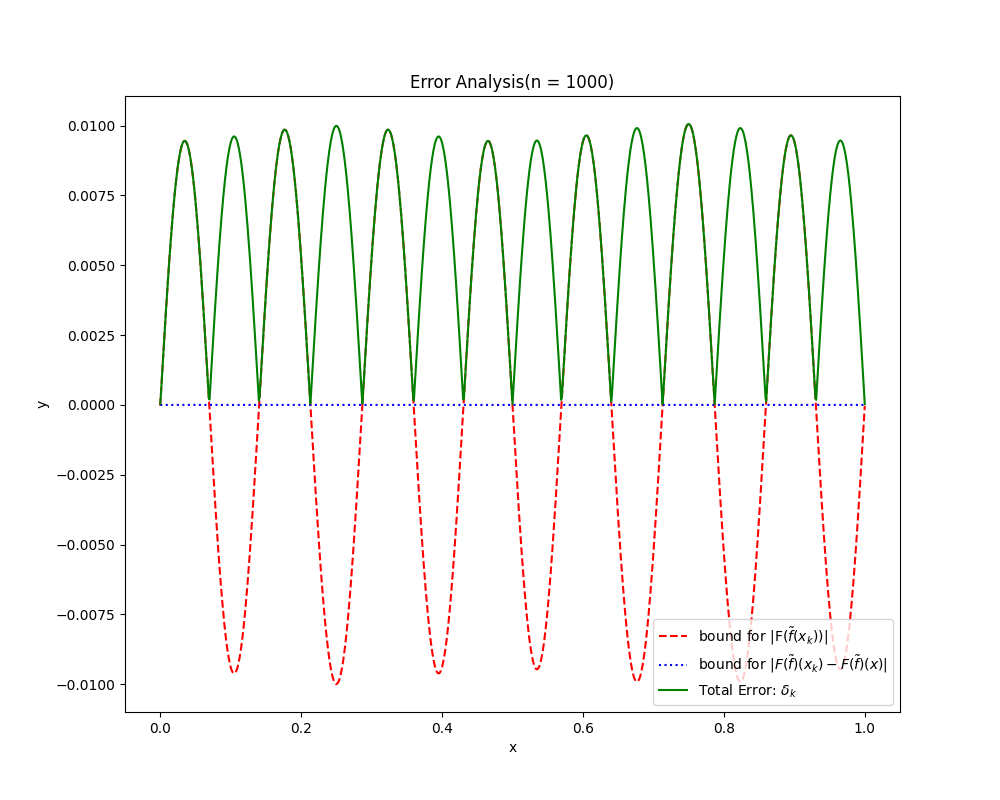
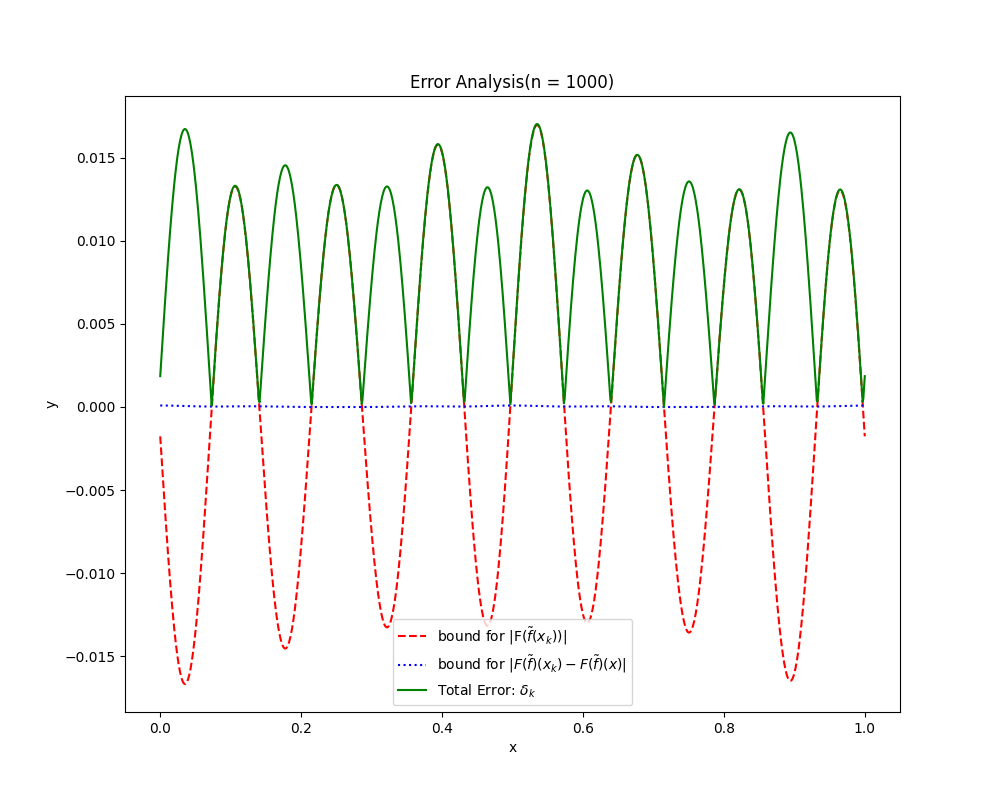
‘new’

diff --git a/pde_solver.py b/pde_solver.py
@@ -8,6 +8,7 @@ tf.keras.backend.set_floatx('float64')
 
 def sine_activation(x):
     return tf.sin(2 * math.pi * x)
+    
 
 class SineActivation(Layer):
     def __init__(self):
@@ -20,7 +21,8 @@ NN = tf.keras.models.Sequential([
         tf.keras.layers.Input((1,)),
         SineActivation(),
         tf.keras.layers.Dense(units=64, activation=sine_activation),
-        tf.keras.layers.Dense(units=1)
+        tf.keras.layers.Dense(units=1),
+
     ])
 
 NN.summary()
@@ -29,6 +31,9 @@ optm = tf.keras.optimizers.Adam(learning_rate=0.001)
 
 def rho_sin(t):
     return tf.sin(2*math.pi*t)/4
+
+def rho_sin2(t):
+    return (tf.cos(4 * math.pi * t) + tf.sin(6 * math.pi * t))/8
 
 
 
@@ -48,53 +53,26 @@ def ode_system(t, rho, net):
 
     u_tt = tape1.gradient(u_t, t)
     u_t2 = 2 * u * u_t  # Chain rule for derivative of u*u with respect to t
-    ode_loss = - u_tt + u_t2   # for non-trivial solution, add rho(t)
-    IC_loss = net(t_0) - zeros
-    EC_loss = net(t_1) - zeros
-    BC_loss = net(t_1) - net(t_0)
+    ode_loss = - u_tt + u_t2  + rho(t)   # for non-trivial solution, add rho(t)
 
-    square_loss = tf.square(ode_loss) + tf.square(IC_loss)
+
+    square_loss = tf.square(ode_loss)
     total_loss = tf.reduce_mean(square_loss)
 
     del tape1  # Clean up
 
     return total_loss, ode_loss
 
-train_t = np.linspace(0, 1, 1001).reshape(-1, 1).astype(np.float64)
-train_loss_record = []
-
-optm = tf.keras.optimizers.Adam(learning_rate=0.001)
-
-for itr in range(2001):
-    with tf.GradientTape() as tape:
-        train_loss, _ = ode_system(tf.constant(train_t),rho_sin, NN)
-        train_loss_record.append(train_loss.numpy())
-
-        grad_w = tape.gradient(train_loss, NN.trainable_variables)
-        optm.apply_gradients(zip(grad_w, NN.trainable_variables))
-
-    if itr % 1000 == 0:
-        print(train_loss.numpy())
-
-test_t = np.linspace(0, 1, 100).astype(np.float64)
-pred_u = NN.predict(test_t).ravel()
-
-# Plot training loss
-
-plt.figure(figsize=(10, 8))
-plt.plot(train_loss_record, label='Training Loss')
-plt.xlabel('Iteration')
-plt.ylabel('Loss')
-plt.legend()
-plt.title('Training Loss Over Iterations')
-plt.savefig("training_loss_plot.png")  # Save plot
 
 
-# Generate and plot predictions
-test_t = np.linspace(0, 1, 100).astype(np.float64)
-pred_u = NN.predict(test_t).ravel()
+
+
+
+
 
 ## TODO For the Neural Network above, find the bound for the derivative of F_approx (using Summation)
+
+
 def NN_derivative(t, net):
     """
     Compute the derivative of the neural network 
@@ -108,6 +86,8 @@ def NN_derivative(t, net):
         u = net(t)
     
     u_t = tape.gradient(u, t)
+
+    del tape
     return u_t
 
 def F_derivative(t, net):
@@ -150,16 +130,71 @@ def calculate_residuals(t, net):
 
 
 
-# Define the points where we need to evaluate the error
-x_points = np.linspace(0, 1, 1001).astype(np.float64)
-x_i = x_points
+## TODO Bound for the integral
+def lower_bound_int(net):
+    
+    x_values = np.linspace(0, 1, 1000).astype(np.float64)  # Using left endpoints for lower sum
+    f_values = net.predict(x_values).ravel()
+    k = NN_derivative(x_values, net)
 
-# Calculate the Lipschitz constant
-lipschitz_constant = Lipschitz_constant(x_i, NN)
+    # Calculate the sum
+    lower_sum = -np.sum(k)/1000000 + np.sum(f_values) /1000
+    
+    return lower_sum
 
-# Calculate the difference bound
-error_bounds = []
-for i,x in enumerate(x_points):
+def upper_bound_int(net):
+    
+
+    x_values = np.linspace(0,1,1000).astype(np.float64)  # Using left endpoints for lower sum
+    k = NN_derivative(x_values, net)
+
+    # Evaluate model at these points
+    f_values = net.predict(x_values).ravel()
+    
+    # Calculate the sum
+    upper_sum = np.sum(k)/1000000 + np.sum(f_values) /1000
+    
+    return upper_sum
+
+
+# Start training
+train_t = np.linspace(0, 1, 1001).reshape(-1, 1).astype(np.float64)
+train_loss_record = []
+
+optm = tf.keras.optimizers.Adam(learning_rate=0.001)
+
+for itr in range(1001):
+    with tf.GradientTape() as tape:
+        train_loss, _ = ode_system(tf.constant(train_t),rho_sin, NN)
+        train_loss_record.append(train_loss.numpy())
+
+        grad_w = tape.gradient(train_loss, NN.trainable_variables)
+        optm.apply_gradients(zip(grad_w, NN.trainable_variables))
+
+    if itr % 1000 == 0:
+        print(train_loss.numpy())
+
+
+# Save the model
+NN.save('best_model.h5')
+
+# Plot training loss
+plt.figure(figsize=(10, 8))
+plt.plot(train_loss_record, label='Training Loss')
+plt.xlabel('Iteration')
+plt.ylabel('Loss')
+plt.legend()
+plt.title('Training Loss Over Iterations')
+plt.savefig("training_loss_plot.png")  # Save plot
+
+
+# Error Analysis
+x_i = np.linspace(0, 1, 1001).astype(np.float64)
+
+lipschitz_constant = Lipschitz_constant(x_i, NN) # Calculate the Lipschitz constant
+
+error_bounds = []   #Find the error bounds
+for i,x in enumerate(x_i):
     error_bound = lipschitz_constant[i][0] * 1/1000
     error_bounds.append(error_bound)
 
@@ -173,21 +208,27 @@ total_errors = np.abs(residuals) + error_bounds[:len(residuals)]
 errors_in_l2 = np.sum(total_errors ** 2) * 1/1000
 print(f"Error in L2: {errors_in_l2}")
 
-
+#Plot the error bounds
 plt.figure(figsize=(10, 8))
-plt.plot(x_points[:len(residuals)], residuals, '--r', label=r'bound for |F($\tilde{f} (x_k)$)|')
-plt.plot(x_points[:len(residuals)], error_bounds[:len(residuals)], ':b', label=r'bound for |$F(\tilde{f})(x_k) - F(\tilde{f})(x)$|')
-plt.plot(x_points[:len(residuals)], total_errors, '-g', label=r'Total Error: $\delta_k$')
+plt.plot(x_i[:len(residuals)], residuals, '--r', label=r'bound for |F($\tilde{f} (x_k)$)|')
+plt.plot(x_i[:len(residuals)], error_bounds[:len(residuals)], ':b', label=r'bound for |$F(\tilde{f})(x_k) - F(\tilde{f})(x)$|')
+plt.plot(x_i[:len(residuals)], total_errors, '-g', label=r'Total Error: $\delta_k$')
 plt.xlabel('x')
 plt.ylabel('y')
 plt.legend()
 plt.title('Error Analysis(n = 1000)')
 plt.savefig("Error.png")
 
-NN.save('best_model.h5')
+
+# Generate and plot predictions
+test_t = np.linspace(0, 1, 100).astype(np.float64)
+pred_u = NN.predict(test_t).ravel()
+
+
 
 plt.figure(figsize=(10, 8))
 plt.plot(test_t, pred_u, '-.r', label='Approximate solution')
+plt.plot(test_t, pred_u - lower_bound_int(NN), '--g', label='Approximate solution shifted')
 #plt.plot(test_t, 0 * test_t, '--k', label='zero_solution')
 plt.legend()
 plt.xlabel('x')
